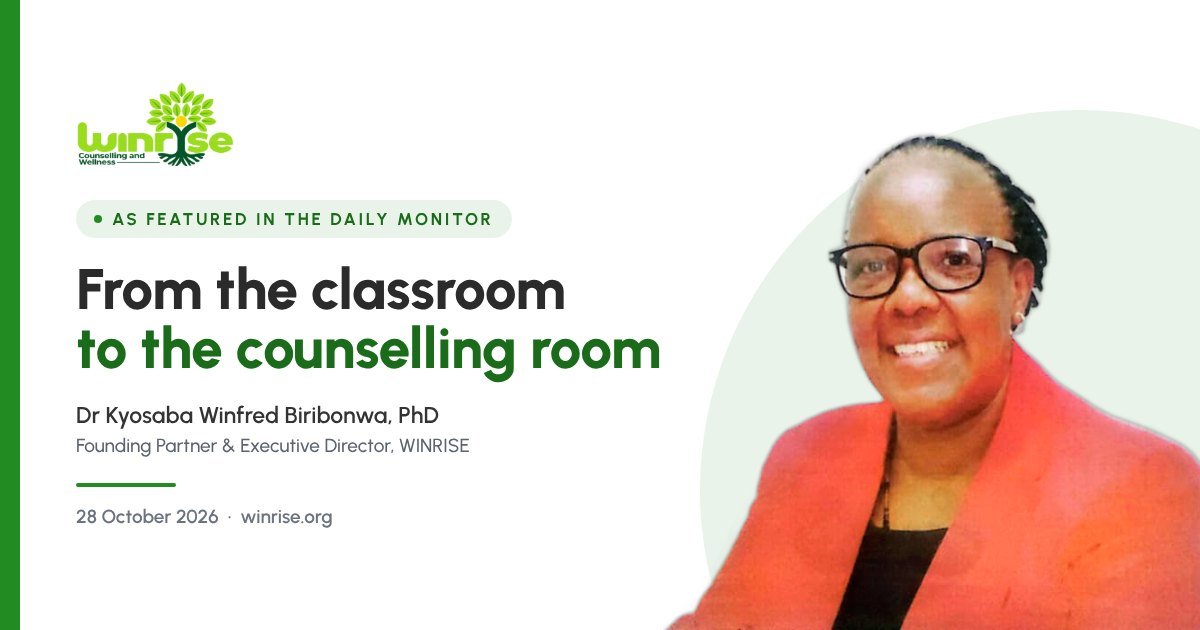
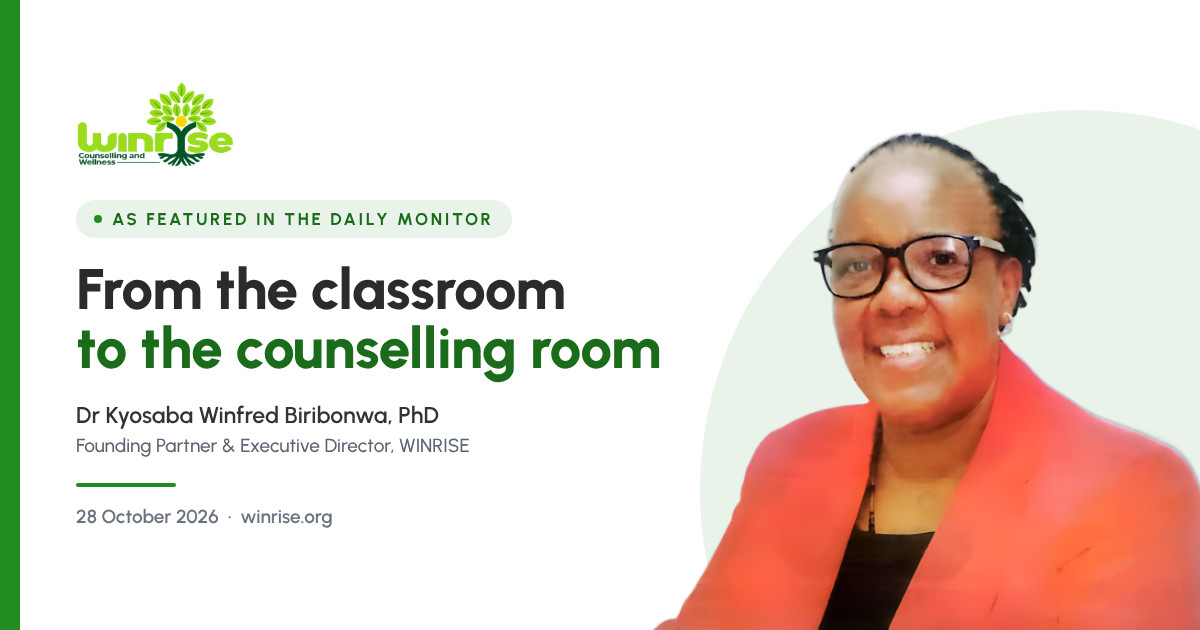
Sharpen Daily Monitor article images with AI upscaling
Photograph upscaled 4x with Real-ESRGAN; thumbnail and article image now 1600x1000, preview card re-rendered at 1200x630.

diff --git a/src/pages/Article.jsx b/src/pages/Article.jsx
@@ -107,8 +107,8 @@ const Article = ({ slug }) => {
                 <img
                   src={article.image}
                   alt={article.imageAlt}
-                  width="1200"
-                  height="750"
+                  width="1600"
+                  height="1000"
                   loading="eager"
                   className="w-full rounded-3xl shadow-xl object-cover aspect-[4/3] object-top"
                 />
